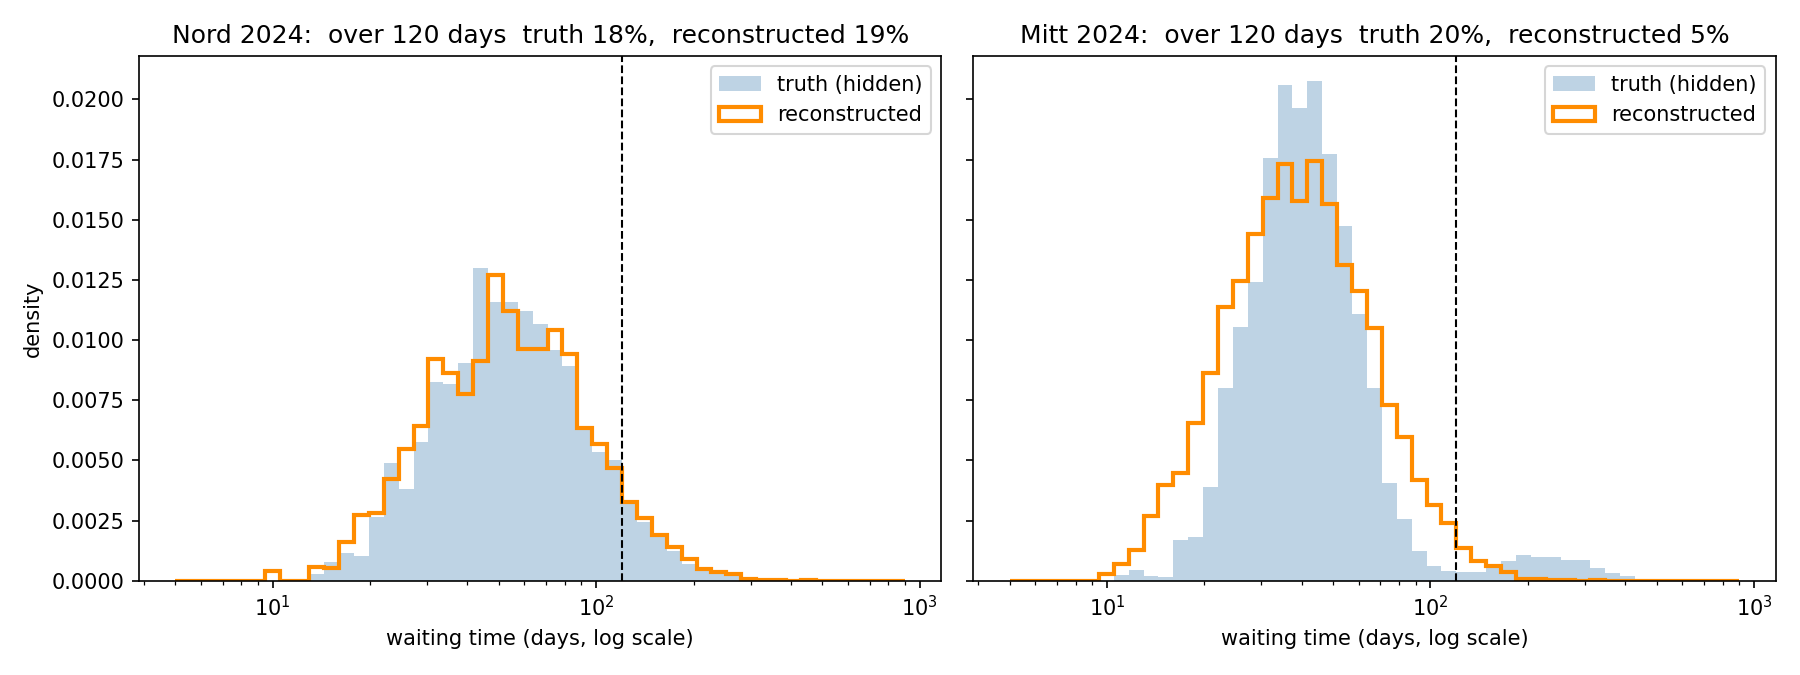
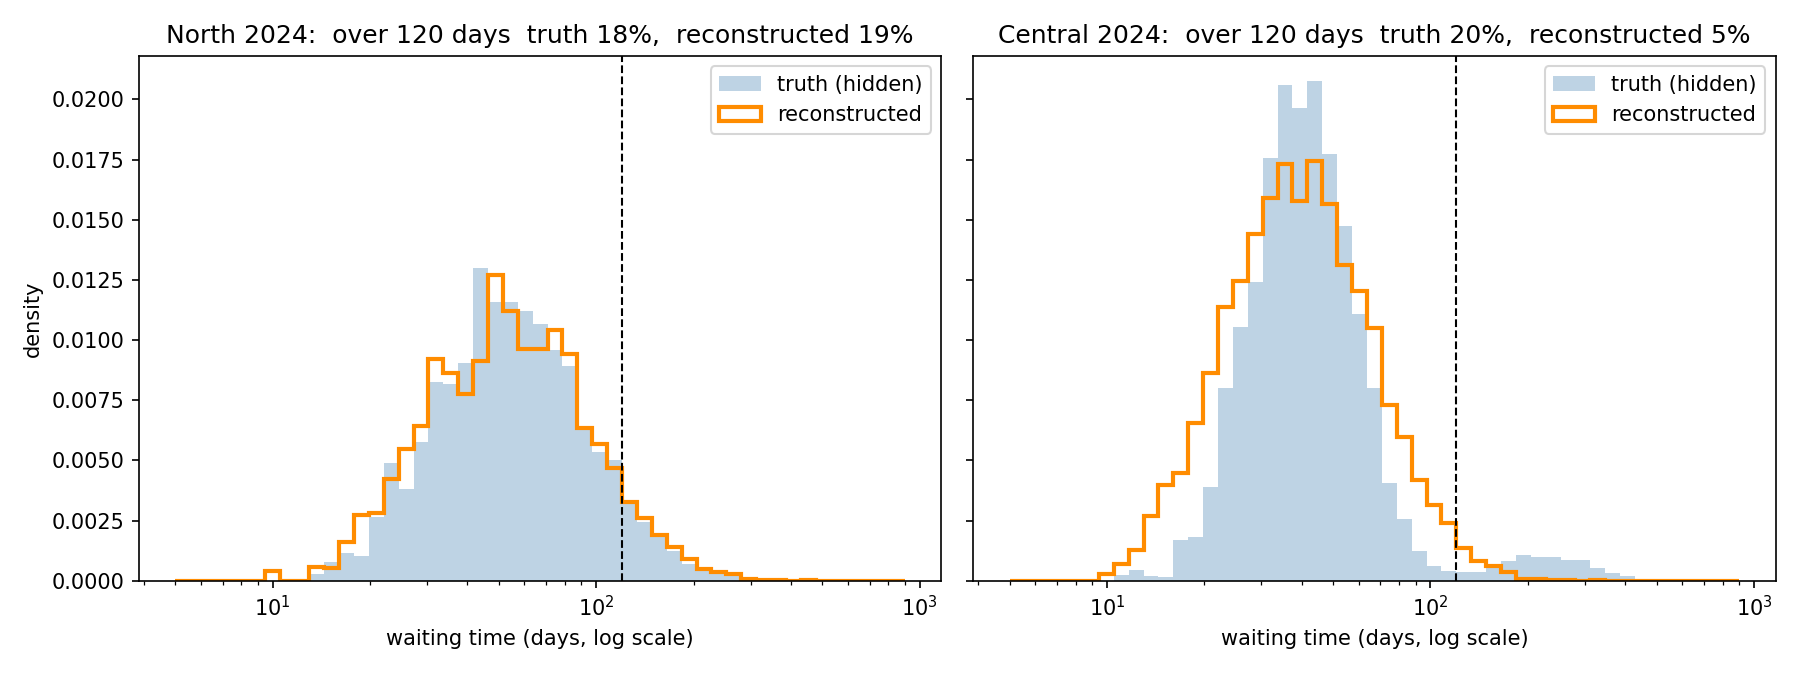
Add files via upload

Changed region(s): [[0.0933, 0.0311, 0.5289, 0.0622], [0.56, 0.0311, 0.9644, 0.0622]]

diff --git a/ch16_when_you_only_have_aggregates/example.py b/ch16_when_you_only_have_aggregates/example.py
@@ -29,11 +29,11 @@ import matplotlib.pyplot as plt
 from robustkit import (
     load_json_stat, plot_quantile_trend, quantile_trend_dispersion,
     expand_aggregated_group, expand_aggregated_table, check_reconstruction_quality,
-    fit_huber_trend, predict_trend,
+    fit_huber_trend, predict_trend, plot_huber_iqr, dispersion_by_bin,
 )
 
 YEARS = list(range(2012, 2025))
-REGIONS = ["Nord", "Mitt", "Syd"]
+REGIONS = ["North", "Central", "South"]
 STATS = [("N", "Number of patients"), ("Q1", "First quartile"),
          ("MED", "Median"), ("Q3", "Third quartile")]
 
@@ -47,21 +47,21 @@ def make_truth(seed=401):
     Individual-level waiting times (days) for non-urgent surgery:
     13 years x 3 regions. Each region is built to teach something.
 
-      Nord: steady rise in the median, constant relative spread.
-      Syd:  the median rises only modestly, but the spread WIDENS --
+      North: steady rise in the median, constant relative spread.
+      South:  the median rises only modestly, but the spread WIDENS --
             the long waits get longer while the typical wait barely does.
-      Mitt: two kinds of patient (80% routine, 20% complex), so the
+      Central: two kinds of patient (80% routine, 20% complex), so the
             distribution has two humps. Its quartiles look unremarkable.
     """
     rng = np.random.default_rng(seed)
     parts = []
     for region in REGIONS:
-        n = {"Nord": 2400, "Mitt": 3600, "Syd": 3000}[region]
+        n = {"North": 2400, "Central": 3600, "South": 3000}[region]
         for year in YEARS:
             t = year - 2012
-            if region == "Nord":
+            if region == "North":
                 days = rng.lognormal(np.log(40 * np.exp(0.050 * t)), 0.55, n)
-            elif region == "Syd":
+            elif region == "South":
                 days = rng.lognormal(np.log(45 * np.exp(0.020 * t)), 0.45 + 0.030 * t, n)
             else:
                 is_complex = rng.random(n) < 0.20
@@ -123,6 +123,49 @@ def huber_slope(x, y):
     return (p[1] - p[0]) / 12
 
 
+def make_queue_data(seed=601, n=6000):
+    """
+    Individual waits (days) against the number of patients ahead in the
+    queue at referral: 80% routine patients, 20% complex ones who wait
+    about 2.5 times as long. Used in the last section, where robustkit's
+    OWN chart is the thing being examined.
+    """
+    rng = np.random.default_rng(seed)
+    ahead = rng.uniform(5, 60, n)
+    typical = 20 + 2.2 * ahead
+    is_complex = rng.random(n) < 0.20
+    wait = np.where(is_complex, rng.lognormal(np.log(2.5 * typical), 0.20),
+                    rng.lognormal(np.log(typical), 0.25))
+    return ahead, wait
+
+
+def matched_unimodal(x, y, bins=15, seed=7):
+    """
+    A second dataset with the same x, built so that its bars match the
+    first: within each of plot_huber_iqr's own bins, y is drawn from a
+    single lognormal calibrated to that bin's Q1/median/Q3 -- the
+    reconstruction from earlier in this chapter. It is, by construction,
+    "what the bars say, and nothing else".
+    """
+    binned = pd.qcut(x, q=bins, duplicates="drop")
+    y_matched = np.empty_like(y)
+    groups = pd.Series(range(len(x))).groupby(binned, observed=True).groups
+    for i, (_, idx) in enumerate(groups.items()):
+        idx = np.array(list(idx))
+        q1, med, q3 = np.percentile(y[idx], [25, 50, 75])
+        y_matched[idx] = expand_aggregated_group(len(idx), q1, med, q3, seed=seed + i)
+    return y_matched
+
+
+def info_box(x, y, metric):
+    """The text robustkit puts in the chart's corner box, read back off the axes."""
+    fig, ax = plt.subplots()
+    plot_huber_iqr(x, y, ax=ax, residual_box_metric=metric)
+    text = ax.texts[0].get_text().replace("\n", "   ")
+    plt.close(fig)
+    return text
+
+
 def main():
     truth = make_truth()
     publish_json_stat(truth, "waiting_times.json")
@@ -162,16 +205,16 @@ def main():
                                     group_cols=["region", "year"], value_name="days")
 
     print("\n=== 2. Trend slope (days per year): truth vs reconstruction vs the medians alone ===")
-    print(f"{'region':6s} {'truth':>7s} {'reconstructed':>14s} {'fit to medians':>15s}")
+    print(f"{'region':7s} {'truth':>7s} {'reconstructed':>14s} {'fit to medians':>15s}")
     for region in REGIONS:
         t = truth[truth.region == region]
         r = recon[recon.region == region]
         w = wide[wide.region == region]
-        print(f"{region:6s} {huber_slope(t.year, t.days):7.2f} "
+        print(f"{region:7s} {huber_slope(t.year, t.days):7.2f} "
               f"{huber_slope(r.year, r.days):14.2f} {huber_slope(w.year, w['median']):15.2f}")
 
     print("\ncheck_reconstruction_quality, 2024 (percent error against the published quartiles):")
-    for region in ["Nord", "Mitt"]:
+    for region in ["North", "Central"]:
         row = wide[(wide.region == region) & (wide.year == 2024)].iloc[0]
         vals = recon[(recon.region == region) & (recon.year == 2024)]["days"]
         e = check_reconstruction_quality(vals, row.q1, row["median"], row.q3)["pct_error"]
@@ -184,29 +227,29 @@ def main():
     # drawing more values -- it is how far the triple is from the
     # log-symmetric shape a lognormal imposes.
     print("\nSame check with sampling noise removed (every group reconstructed at n = 1,000,000):")
-    print(f"{'region':6s} {'typical error':>14s} {'worst group':>12s}")
+    print(f"{'region':7s} {'typical error':>14s} {'worst group':>12s}")
     for region in REGIONS:
         errs = []
         for _, row in wide[wide.region == region].iterrows():
             v = expand_aggregated_group(1_000_000, row.q1, row["median"], row.q3, seed=0)
             e = check_reconstruction_quality(v, row.q1, row["median"], row.q3)["pct_error"]
             errs.append(max(e["q1"], e["q3"]))
-        print(f"{region:6s} {np.mean(errs):13.1f}% {np.max(errs):11.1f}%")
+        print(f"{region:7s} {np.mean(errs):13.1f}% {np.max(errs):11.1f}%")
 
     # ------------------------------------------------------------------
     # 3. What the three published numbers cannot carry
     # ------------------------------------------------------------------
     print("\n=== 3. A question about the tail, 2024: waits over 120 days ===")
-    print(f"{'region':6s} {'true share':>11s} {'reconstructed':>14s} {'true p95':>9s} {'recon p95':>10s}")
+    print(f"{'region':7s} {'true share':>11s} {'reconstructed':>14s} {'true p95':>9s} {'recon p95':>10s}")
     for region in REGIONS:
         t = truth[(truth.region == region) & (truth.year == 2024)]["days"]
         c = recon[(recon.region == region) & (recon.year == 2024)]["days"]
-        print(f"{region:6s} {(t > 120).mean():11.1%} {(c > 120).mean():14.1%} "
+        print(f"{region:7s} {(t > 120).mean():11.1%} {(c > 120).mean():14.1%} "
               f"{t.quantile(.95):9.0f} {c.quantile(.95):10.0f}")
 
     fig, axes = plt.subplots(1, 2, figsize=(12, 4.5), sharey=True)
     bins = np.logspace(np.log10(5), np.log10(900), 50)
-    for ax, region in zip(axes, ["Nord", "Mitt"]):
+    for ax, region in zip(axes, ["North", "Central"]):
         t = truth[(truth.region == region) & (truth.year == 2024)]["days"]
         c = recon[(recon.region == region) & (recon.year == 2024)]["days"]
         ax.hist(t, bins=bins, density=True, histtype="stepfilled", alpha=0.35, color="steelblue", label="truth (hidden)")
@@ -224,7 +267,7 @@ def main():
     # ------------------------------------------------------------------
     # 4. The size of the group you reconstruct changes the tail, not the quartiles
     # ------------------------------------------------------------------
-    row = wide[(wide.region == "Nord") & (wide.year == 2024)].iloc[0]
+    row = wide[(wide.region == "North") & (wide.year == 2024)].iloc[0]
     print(f"\n=== 4. Same published quartiles ({row.q1:.0f} / {row['median']:.0f} / {row.q3:.0f}), "
           f"reconstructed at different n ===")
     print(f"{'n':>12s} {'Q1 err':>7s} {'median err':>11s} {'Q3 err':>7s} {'longest wait':>13s}")
@@ -232,6 +275,44 @@ def main():
         v = expand_aggregated_group(n, row.q1, row["median"], row.q3, seed=7)
         e = check_reconstruction_quality(v, row.q1, row["median"], row.q3)["pct_error"]
         print(f"{n:12,d} {e['q1']:6.2f}% {e['median']:10.2f}% {e['q3']:6.2f}% {v.max():10,.0f} days")
+
+    # ------------------------------------------------------------------
+    # 5. robustkit's own charts summarise data the same way
+    # ------------------------------------------------------------------
+    # dispersion_by_bin -- the function behind plot_huber_iqr's error bars --
+    # produces exactly the table an agency would publish: n, Q1, median, Q3 per bin.
+    x, y_a = make_queue_data()
+    y_b = matched_unimodal(x, y_a)
+    bars_a, bars_b = dispersion_by_bin(x, y_a, n_bins=15), dispersion_by_bin(x, y_b, n_bins=15)
+
+    print("\n=== 5. robustkit's own chart: two datasets with the same bars ===")
+    print("A = 20% complex cases;  B = one kind of case, bars matched to A")
+    print("Per-bin bar endpoints, B against A (relative difference):")
+    for col in ["q1", "median", "q3"]:
+        d = np.abs(bars_b[col].to_numpy() / bars_a[col].to_numpy() - 1)
+        print(f"  {col:6s} average {d.mean():.1%}   largest {d.max():.1%}")
+
+    bins = pd.qcut(x, 15, duplicates="drop")
+    med_a = pd.Series(y_a).groupby(bins, observed=True).transform("median").to_numpy()
+    med_b = pd.Series(y_b).groupby(bins, observed=True).transform("median").to_numpy()
+    print(f"Share of waits more than twice their bin's median:  A {np.mean(y_a > 2 * med_a):.1%}   B {np.mean(y_b > 2 * med_b):.1%}")
+    print("Corner box, default:  A  " + info_box(x, y_a, "r2"))
+    print("                      B  " + info_box(x, y_b, "r2"))
+    print("Corner box, mdape:    A  " + info_box(x, y_a, "mdape"))
+    print("                      B  " + info_box(x, y_b, "mdape"))
+
+    fig, axes = plt.subplots(2, 2, figsize=(13, 9), sharex=True)
+    for j, (y, title) in enumerate([(y_a, "A: two kinds of patient (20% complex)"),
+                                    (y_b, "B: one kind, bars matched to A")]):
+        plot_huber_iqr(x, y, ax=axes[0, j], show_points=False, ylim=(0, 330), title=title)
+        plot_huber_iqr(x, y, ax=axes[1, j], show_points=True, ylim=(0, 700), title="")
+    axes[0, 0].set_ylabel("publisher view (no points)")
+    axes[1, 0].set_ylabel("analyst view (every point)")
+    axes[1, 0].set_xlabel("patients ahead in queue")
+    axes[1, 1].set_xlabel("patients ahead in queue")
+    fig.tight_layout()
+    fig.savefig("own_charts_blind_spot.png", dpi=130)
+    plt.close(fig)
 
 
 if __name__ == "__main__":
